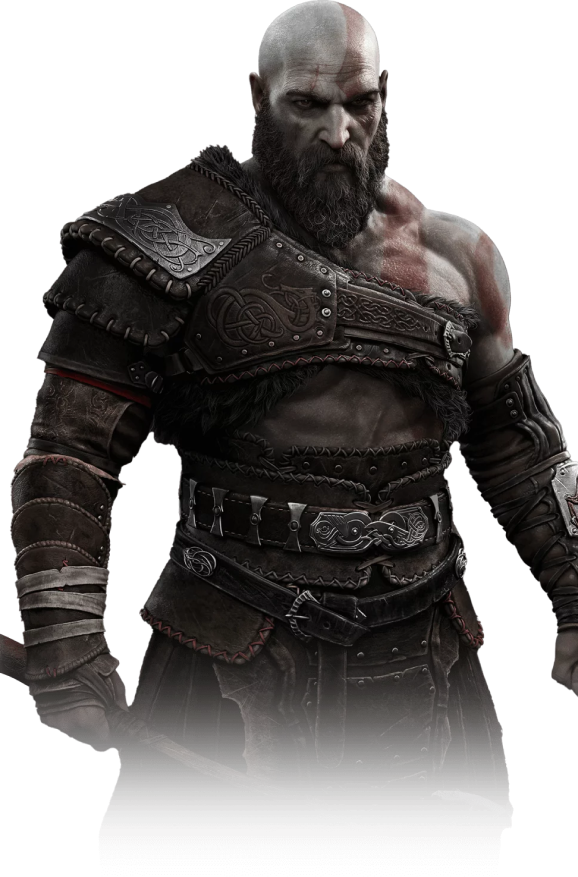
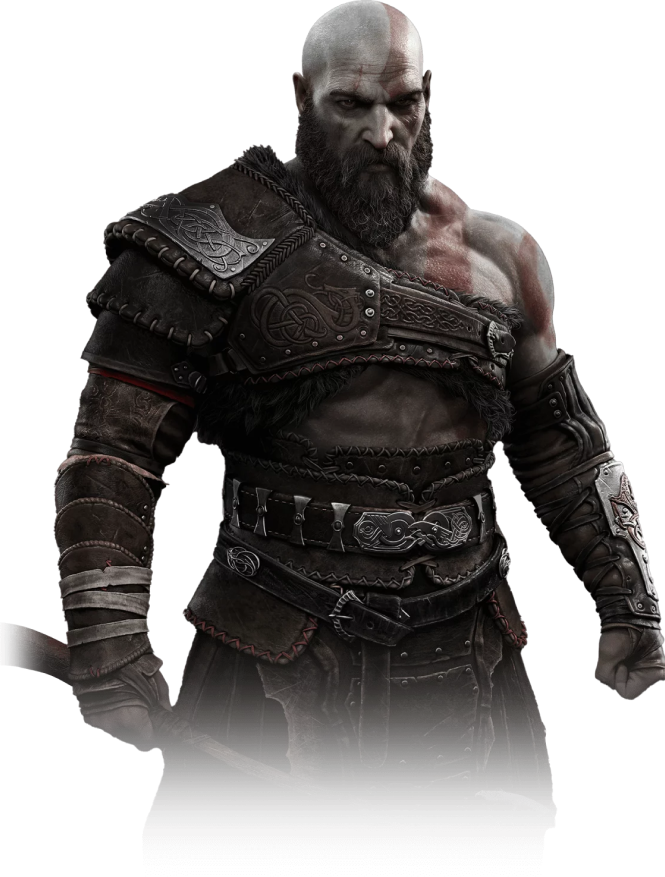
comecando a secao kratos

diff --git a/css/kratos.css b/css/kratos.css
@@ -5,4 +5,15 @@
     background-position: center;
     width: 100%;
     height: 100vh;
+    display: grid;
+    grid-template-areas: 
+    "kratos informacao";
+}
+
+.kratos__personagem{
+    display: flex;
+    align-items: flex-end;
+    justify-content: flex-start;
+    grid-area: kratos;
+    padding-left: 110px;
 }

diff --git a/index.html b/index.html
@@ -49,6 +49,11 @@
         </section>
 
         <section class="kratos">
+            
+            <div class="kratos__personagem">
+                <img src="img/kratos.png" alt="" >
+            </div>
+
 
 
         </section>
